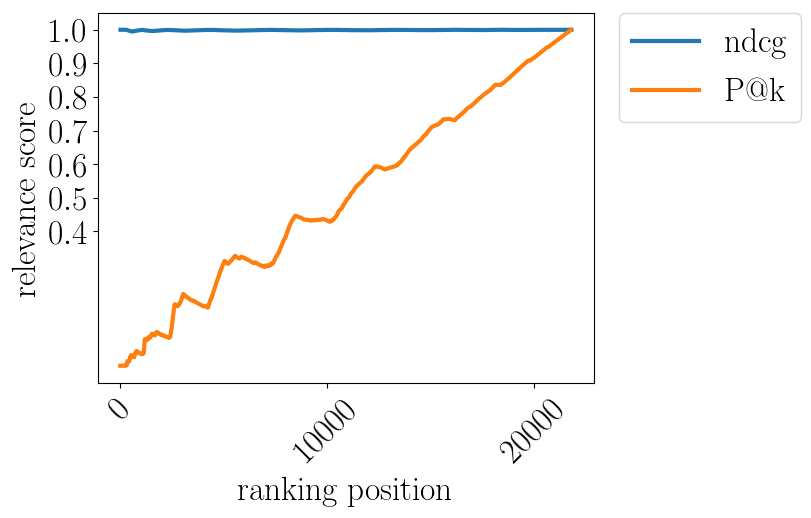
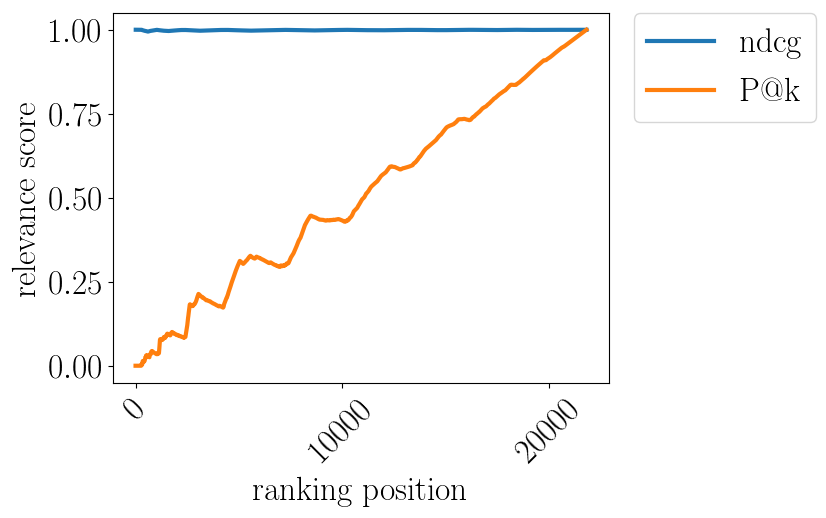
repaired legend in LSAT plots

diff --git a/src/main.py b/src/main.py
@@ -137,9 +137,11 @@ def evaluateRelevance(data, result_dir, qualAttr, stepsize, calcResult=0):
     ax = performanceDataframe.plot(y=['ndcg', 'P$@$k'],
                                    kind='line',
                                    use_index=True,
-                                   yticks=np.arange(0.4, 1.1, 0.1),
+                                   # yticks=np.arange(0.4, 1.1, 0.1),
                                    rot=45)
-    ax.legend(bbox_to_anchor=(1.05, 1), loc=2, borderaxespad=0.)  # , labels=self.__groupNamesForPlots)
+    ax.legend(bbox_to_anchor=(1.05, 1),
+              loc=2,
+              borderaxespad=0.)  # , labels=self.__groupNamesForPlots)
     ax.set_xlabel("ranking position")
     ax.set_ylabel("relevance score")
     plt.savefig(result_dir + "relevanceEvaluation.png", dpi=100, bbox_inches='tight')
@@ -287,8 +289,8 @@ def main():
 
         score_stepsize = 10
 
-        evaluateRelevance(fairSorting, result_dir, qualAttr, score_stepsize, calcResult=1)
-        evaluateFairness(fairSorting, groups, groupNames, result_dir, score_stepsize, calcResult=1)
+        evaluateRelevance(fairSorting, result_dir, qualAttr, score_stepsize, calcResult=0)
+        evaluateFairness(fairSorting, groups, groupNames, result_dir, score_stepsize, calcResult=0)
     else:
         parser.error("choose one command line option")
 
